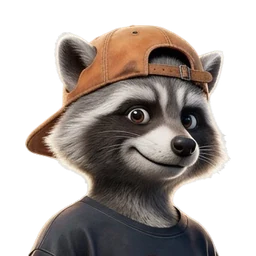
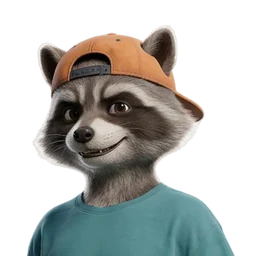
Веселку замінено на оленятко-фею Росинку; Фліп — однотонна футболка без принтів

diff --git a/js/themes.js b/js/themes.js
@@ -30,7 +30,7 @@ export const COMPANIONS = [
   { id: 'yunha', age: '6-7', name: 'Юнга', who: 'єнот-пірат', img: 'yunha', color: '#a8743e', light: '#cfb395', deep: '#8d6134' },
   { id: 'bulka', age: '6-7', name: 'Булька', who: 'видра-дайверка', img: 'bulka', color: '#1fb3ad', light: '#84d5d2', deep: '#1a9691' },
   { id: 'ryatko', age: '6-7', name: 'Рятко', who: 'ведмедик-рятувальник', img: 'ryatko', color: '#e8463c', light: '#f29994', deep: '#c33b32' },
-  { id: 'veselka', age: '6-7', name: 'Веселка', who: 'поні-фея', img: 'veselka', color: '#b48be8', light: '#d6bff2', deep: '#9775c3' },
+  { id: 'rosynka', age: '6-7', name: 'Росинка', who: 'оленятко-фея', img: 'rosynka', color: '#b48be8', light: '#d6c3f2', deep: '#9775c3' },
   { id: 'syrnyk', age: '6-7', name: 'Сирник', who: 'мишеня-лицар', img: 'syrnyk', color: '#4f6fd8', light: '#9eb0ea', deep: '#425db5' },
   { id: 'pyrizhok', age: '6-7', name: 'Пиріжок', who: 'пінгвін-кухар', img: 'pyrizhok', color: '#f59a2b', light: '#fac78a', deep: '#ce8124' },
   { id: 'boltyk', age: '6-7', name: 'Болтик', who: 'песик-робот', img: 'boltyk', color: '#3fa5e6', light: '#95cef1', deep: '#358bc1' },
@@ -40,7 +40,7 @@ export const COMPANIONS = [
   { id: 'miksi', age: '8-10', name: 'Міксі', who: 'панда-діджейка', img: 'miksi', color: '#9f7aea', light: '#cbb5ff', deep: '#7c55d6' },
   { id: 'yaryi', age: '8-10', name: 'Ярий', who: 'дракон', img: 'yaryi', color: '#2fa86b', light: '#8dcfae', deep: '#278d5a' },
   { id: 'lupa', age: '8-10', name: 'Лупа', who: 'лисиця-детективка', img: 'lupa', color: '#c9773a', light: '#e1b493', deep: '#a96431' },
-  { id: 'flip', age: '8-10', name: 'Фліп', who: 'єнот-скейтер', img: 'flip', color: '#f08c2e', light: '#f7c08c', deep: '#ca7627' },
+  { id: 'flip', age: '8-10', name: 'Фліп', who: 'єнот-скейтер', img: 'flip', color: '#1f9e9a', light: '#84cac7', deep: '#1a8581' },
   { id: 'bryz', age: '8-10', name: 'Бриз', who: 'акула-серферка', img: 'bryz', color: '#ff6f61', light: '#ffb0a8', deep: '#d65d51' },
   { id: 'sirko', age: '8-10', name: 'Сірко', who: 'вовк-футболіст', img: 'sirko', color: '#6fb52a', light: '#b0d68a', deep: '#5d9823' },
   { id: 'piksel', age: '8-10', name: 'Піксель', who: 'кішка-дизайнерка', img: 'piksel', color: '#e85fb0', light: '#f2a7d4', deep: '#c35094' },
